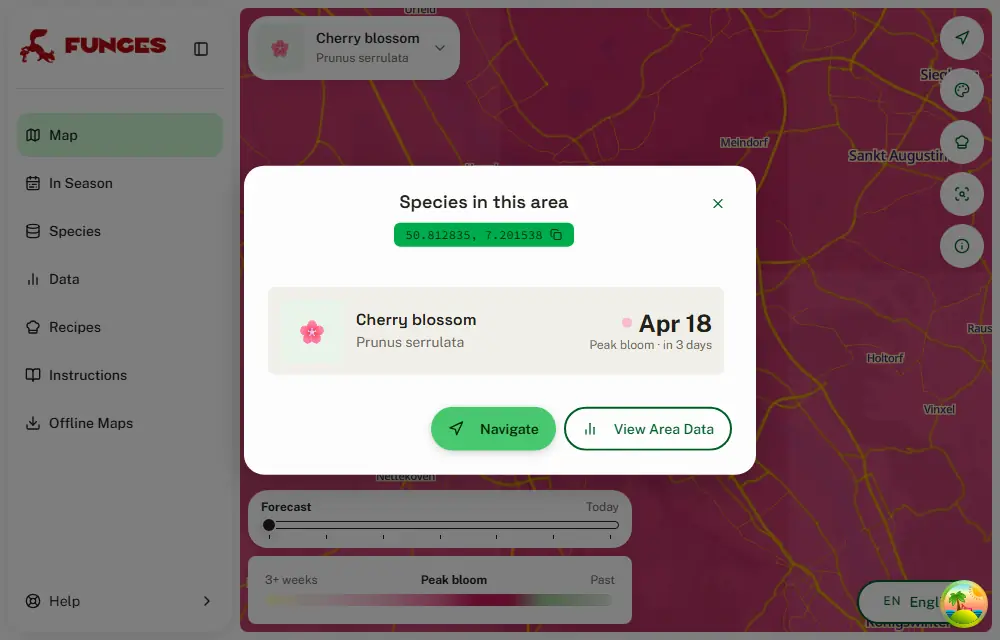
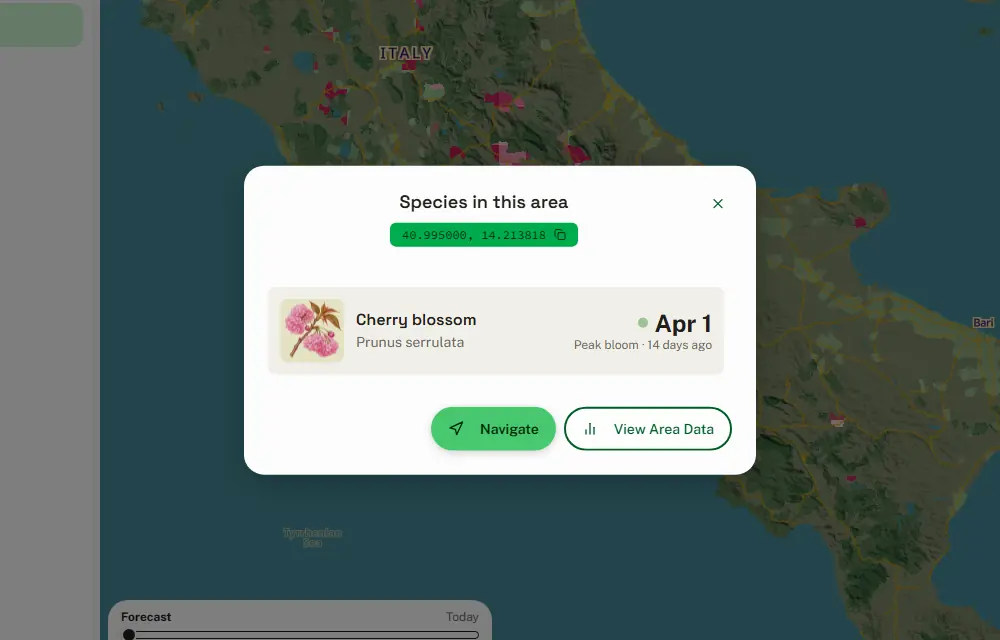
feat(bloom): finished towns stay green all season; cherry blossom picture
A town no longer vanishes 14 days after its peak, which read as a town
without cherries. It settles to a steady pale green until 30 June; from
July the map hides the layer, and only last season's file (peaks over
150 days old) is transparent and opens nothing on a click.

The selector, the species panel and the info modal show a Codex-made
'Kanzan' sprig in the catalog's style instead of the emoji.

diff --git a/src/lib/bloom.ts b/src/lib/bloom.ts
@@ -68,29 +68,36 @@ export const formatBloomDate = (
 
 const PEAK_DAYS = 2; // peak is ±2 days
 const SOON_DAYS = 21; // pink from three weeks out
-const PAST_DAYS = 14; // fades for two weeks after, as long as the backend keeps a cell
+const FADE_DAYS = 14; // green fades to its steady "done" tone over two weeks
+// No peak of this season is older than this (the earliest come around 1 March),
+// so an older one is last season's file, which waits on R2 until 1 February's run.
+const STALE_DAYS = 150;
 
-export type BloomStatus = 'later' | 'soon' | 'peak' | 'past' | 'over';
+export type BloomStatus = 'later' | 'soon' | 'peak' | 'past' | 'stale';
 
 export function bloomStatus(peak: number, day: number): BloomStatus {
   const toPeak = peak - day;
   if (toPeak > SOON_DAYS) return 'later';
   if (toPeak > PEAK_DAYS) return 'soon';
   if (toPeak >= -PEAK_DAYS) return 'peak';
-  if (toPeak >= -PAST_DAYS) return 'past';
-  return 'over';
+  if (toPeak >= -STALE_DAYS) return 'past';
+  return 'stale';
 }
 
 // Nothing in bloom: the light yellow the score layers start from.
 export const BLOOM_IDLE = 'rgba(255, 255, 204, 0.9)';
 
+// Done for this year: the steady pale green a town keeps until 30 June.
+const BLOOM_DONE = 'rgba(156, 196, 148, 0.45)';
+
 // Days to peak -> colour. Light yellow more than three weeks out, pink deepening
-// to the peak, then leaf green as the petals drop, fading out two weeks after:
-// last season's file, which the map keeps until the first run on 1 February,
-// reads as long over.
+// to the peak, then leaf green as the petals drop, settling to a pale green that
+// stays: a town never vanishes, which read as "no cherries here". Only last
+// season's file is invisible.
 export const BLOOM_RAMP: readonly (readonly [number, string])[] = [
-  [-PAST_DAYS - 1, 'rgba(156, 196, 148, 0)'],
-  [-PAST_DAYS, 'rgba(156, 196, 148, 0.35)'],
+  [-STALE_DAYS - 1, 'rgba(156, 196, 148, 0)'],
+  [-STALE_DAYS, BLOOM_DONE],
+  [-FADE_DAYS, BLOOM_DONE],
   [-6, '#9cc494'],
   [-PEAK_DAYS, '#c2185b'],
   [PEAK_DAYS, '#c2185b'],
@@ -106,7 +113,7 @@ export const BLOOM_STATUS_COLOR: Record<BloomStatus, string> = {
   soon: '#f7b8cf',
   peak: '#c2185b',
   past: '#9cc494',
-  over: BLOOM_IDLE,
+  stale: BLOOM_IDLE,
 };
 
 export function bloomFillColor(day: number): ExpressionSpecification {
@@ -118,11 +125,14 @@ export function bloomFillColor(day: number): ExpressionSpecification {
   ] as unknown as ExpressionSpecification;
 }
 
-/** The ramp as a legend, in the order a place goes through it: later -> past. */
+/** The ramp as a legend, in the order a place goes through it: later -> done. */
 export function bloomGradientCss(): string {
-  const [far] = BLOOM_RAMP[BLOOM_RAMP.length - 1];
-  const span = far - BLOOM_RAMP[0][0];
-  const stops = [...BLOOM_RAMP]
+  // From four weeks before the peak to the steady "done" green; the months of
+  // that green after it, and the stale stop, would only stretch the bar.
+  const shown = BLOOM_RAMP.filter(([toPeak]) => toPeak >= -FADE_DAYS);
+  const [far] = shown[shown.length - 1];
+  const span = far - shown[0][0];
+  const stops = [...shown]
     .reverse()
     .map(([toPeak, colour]) => `${colour} ${((far - toPeak) / span) * 100}%`);
   return `linear-gradient(to right, ${stops.join(', ')})`;

diff --git a/src/test/bloom.test.ts b/src/test/bloom.test.ts
@@ -50,13 +50,15 @@ describe('bloomStatus', () => {
     [102, 'peak'],
     [103, 'past'],
     [114, 'past'],
-    [115, 'over'],
+    [115, 'past'],
+    [250, 'past'],
+    [251, 'stale'],
   ])('on day %i is %s', (day, status) => {
     expect(bloomStatus(peak, day)).toBe(status);
   });
 
-  it('treats a cell without a peak as over, so a click lists nothing', () => {
-    expect(bloomStatus(Number(undefined), 100)).toBe('over');
+  it('treats a cell without a peak as stale, so a click lists nothing', () => {
+    expect(bloomStatus(Number(undefined), 100)).toBe('stale');
   });
 });
 
@@ -71,8 +73,17 @@ describe('bloomFillColor', () => {
     expect(expression.slice(3)).toEqual(BLOOM_RAMP.flat());
   });
 
-  it('is transparent once a place is over, so last season reads as nothing', () => {
-    expect(BLOOM_RAMP[0][1]).toMatch(/, 0\)$/);
+  it('keeps a finished town a steady pale green, never transparent', () => {
+    const done = BLOOM_RAMP.filter(
+      ([toPeak]) => toPeak >= -150 && toPeak <= -14
+    );
+    expect(done.length).toBe(2);
+    expect(done[0][1]).toBe(done[1][1]);
+    expect(done[0][1]).not.toMatch(/, 0\)$/);
+  });
+
+  it('is transparent only for last season, peaks over 150 days old', () => {
+    expect(BLOOM_RAMP[0]).toEqual([-151, 'rgba(156, 196, 148, 0)']);
   });
 
   it('draws the legend from later to past: yellow, pink, then green', () => {
@@ -81,7 +92,8 @@ describe('bloomFillColor', () => {
       true
     );
     expect(css).toContain('#c2185b');
-    expect(css.endsWith('rgba(156, 196, 148, 0) 100%)')).toBe(true);
+    // It ends on the steady "done" green, not on the months of it after.
+    expect(css.endsWith('rgba(156, 196, 148, 0.45) 100%)')).toBe(true);
   });
 
   it('never paints the days after the peak pink', () => {

diff --git a/src/store/mapStore.ts b/src/store/mapStore.ts
@@ -23,6 +23,7 @@ import type { RegionId } from '@/lib/data';
 import {
   BLOOM_CODE,
   bloomFillColor,
+  bloomInSeason,
   bloomToday,
   isBloomLayer,
   unixDay,
@@ -565,13 +566,19 @@ export const useMapStore = create<MapState>()(
                 }
               } else if (isBloomLayer(id)) {
                 // Coloured by days to peak on the slider's day, not by a score.
-                mapRef.setPaintProperty(
-                  id,
-                  'fill-color',
-                  bloomFillColor(unixDay(bloomToday()) + activeDay)
-                );
-                mapRef.setLayoutProperty(id, 'visibility', 'visible');
-                drawn = true;
+                // Out of season (July-January) there is nothing to show: finished
+                // towns stay green until 30 June, then the layer goes.
+                if (bloomInSeason(bloomToday())) {
+                  mapRef.setPaintProperty(
+                    id,
+                    'fill-color',
+                    bloomFillColor(unixDay(bloomToday()) + activeDay)
+                  );
+                  mapRef.setLayoutProperty(id, 'visibility', 'visible');
+                  drawn = true;
+                } else {
+                  mapRef.setLayoutProperty(id, 'visibility', 'none');
+                }
               } else {
                 const current = mapRef.getPaintProperty(
                   id,

diff --git a/src/components/FeatureInfoModal.tsx b/src/components/FeatureInfoModal.tsx
@@ -17,7 +17,7 @@ import { SPECIES_DATA, speciesNameKey } from '@/data/species';
 import type { RegionId } from '@/lib/data';
 import { Navigation, BarChart2, Copy, Check, AlertTriangle } from '@/lib/icons';
 import {
-  BLOOM_EMOJI,
+  BLOOM_CODE,
   BLOOM_SCIENTIFIC_NAME,
   BLOOM_STATUS_COLOR,
   bloomStatus,
@@ -168,11 +168,14 @@ export default function FeatureInfoModal({
             {bloomPeak !== null && bloomDay !== undefined && (
               <div className='flex items-center space-x-3 p-2 sm:p-3 bg-muted rounded-lg'>
                 <div className='flex-shrink-0'>
-                  <div
-                    aria-hidden='true'
-                    className='flex w-14 h-14 sm:w-16 sm:h-16 items-center justify-center rounded-lg bg-secondary text-2xl'
-                  >
-                    {BLOOM_EMOJI}
+                  <div className='relative w-14 h-14 sm:w-16 sm:h-16 bg-secondary overflow-hidden rounded-lg'>
+                    <img
+                      src={getSpeciesImage(BLOOM_CODE) ?? undefined}
+                      alt={t('bloom.name')}
+                      className='w-full h-full object-cover object-center'
+                      loading='lazy'
+                    />
+                    <div className='absolute inset-0 bg-black/10' />
                   </div>
                 </div>
                 <div className='flex-1 min-w-0'>

diff --git a/src/test/mapStore.test.ts b/src/test/mapStore.test.ts
@@ -311,6 +311,8 @@ describe('updateVisibleLayers with a selection from another region', () => {
   });
 
   it('draws the cherry blossom layer, coloured for the slider day', () => {
+    vi.useFakeTimers({ toFake: ['Date'] });
+    vi.setSystemTime(new Date(2027, 3, 15));
     const { visibility, paint, map } = fakeMap([
       'cherry_blossom_usw',
       'cherry_blossom_ne',
@@ -331,6 +333,19 @@ describe('updateVisibleLayers with a selection from another region', () => {
       bloomFillColor(unixDay(new Date()) + 3)
     );
     expect(useMapStore.getState().selectedSpeciesOnMap).toBe(true);
+    vi.useRealTimers();
+  });
+
+  it('hides the cherry blossom layer out of season', () => {
+    vi.useFakeTimers({ toFake: ['Date'] });
+    vi.setSystemTime(new Date(2027, 7, 1));
+    const { visibility, map } = fakeMap(['cherry_blossom_usw']);
+    useMapStore.setState({ mapRef: map, selectedSpecies: BLOOM_CODE });
+    useMapStore.getState().updateVisibleLayers();
+
+    expect(visibility.cherry_blossom_usw).toBe('none');
+    expect(useMapStore.getState().selectedSpeciesOnMap).toBe(false);
+    vi.useRealTimers();
   });
 
   it('hides a Europe-only selection over the US and reports nothing drawn', () => {

diff --git a/src/components/SpeciesSelector.tsx b/src/components/SpeciesSelector.tsx
@@ -39,8 +39,8 @@ const SpeciesSelector: React.FC<SpeciesSelectorProps> = ({
   // Resolved from the whole catalog, not the region's options: the selection
   // survives panning into a region that has no forecast for it.
   const species = selectedSpecies ? getSpeciesById(selectedSpecies) : undefined;
-  // The cherry blossom layer is picked like a species but has no catalog entry,
-  // and no photo: the emoji stands in.
+  // The cherry blossom layer is picked like a species but has no catalog entry;
+  // its picture sits with the species' in src/assets/species.
   const selected =
     selectedSpecies === BLOOM_CODE
       ? {
@@ -48,7 +48,7 @@ const SpeciesSelector: React.FC<SpeciesSelectorProps> = ({
           emoji: BLOOM_EMOJI,
           name: t('bloom.name'),
           scientificName: BLOOM_SCIENTIFIC_NAME,
-          photo: false,
+          photo: true,
         }
       : species && {
           id: species.id,

diff --git a/src/components/SpeciesSelectorFullscreen.tsx b/src/components/SpeciesSelectorFullscreen.tsx
@@ -87,7 +87,7 @@ const SpeciesSelectorFullscreen: React.FC<SpeciesSelectorFullscreenProps> = ({
   ];
 
   // Species, plus the cherry blossom layer under "Spectacles": it is picked like
-  // a species but is not in the catalog, so it brings its own name and has no photo.
+  // a species but is not in the catalog, so it brings its own name.
   const options = [
     ...speciesOptions.map(option => {
       const speciesData = SPECIES_DATA.find(item => item.id === option.code);
@@ -106,7 +106,7 @@ const SpeciesSelectorFullscreen: React.FC<SpeciesSelectorFullscreenProps> = ({
       category: 'spectacle' as string | undefined,
       name: t('bloom.name'),
       scientificName: BLOOM_SCIENTIFIC_NAME,
-      image: null,
+      image: getSpeciesImage(BLOOM_CODE),
     },
   ];
 

diff --git a/src/components/AdvancedMap.tsx b/src/components/AdvancedMap.tsx
@@ -1354,14 +1354,14 @@ const AdvancedMap: React.FC<MapProps> = ({ className = '' }) => {
       });
       if (features && features.length > 0) {
         const f = features[0];
-        // A cherry blossom cell carries a peak date. One whose bloom is long over,
-        // as all of last season's file is, has nothing to list.
+        // A cherry blossom cell carries a peak date. Only last season's file,
+        // waiting for 1 February's run, has nothing to list.
         if (
           selectedSpecies === BLOOM_CODE &&
           bloomStatus(
             Number(f.properties?.peak),
             unixDay(bloomToday()) + activeDay
-          ) === 'over'
+          ) === 'stale'
         ) {
           return;
         }

diff --git a/backend/bloom.py b/backend/bloom.py
@@ -38,7 +38,6 @@ FORCING = {"yoshino": 285.0, "kanzan": 485.0}  # °C·days above FORCE_BASE
 MAP_VARIETY = "kanzan"
 CELL = 0.1  # degrees; base points are averaged into cells this size
 LAPSE = 0.0065  # °C per metre, moves a normal to a cell's elevation
-PAST_DAYS = 14  # a cell stays on the map this long after its peak
 EPOCH = date(1970, 1, 1)
 
 _BACKEND = Path(__file__).resolve().parent
@@ -207,15 +206,15 @@ def build_bloom(master_path, region_code, r2_prefix, to_pmtiles, upload,
     del obs
     base = (first - EPOCH).days
     peak = base + peak_index(tmean, FORCING[MAP_VARIETY])
-    drawn = np.isfinite(peak) & (peak >= (today - EPOCH).days - PAST_DAYS)
+    # Every town with a peak stays all season, green once it is done: one that
+    # vanished after its bloom read as a town without cherries.
+    drawn = np.isfinite(peak)
     print(f"Bloom {region_code}: {int(drawn.sum())} of {len(peak)} cells drawn "
           f"({int(np.isnan(peak).sum())} without a peak)")
 
     bands = 0
     with tempfile.TemporaryDirectory() as tmpdir:
         tmp = Path(tmpdir)
-        # Nothing left to draw late in June: the last tileset's cells are all past by
-        # then, which the map paints transparent, so it can stay.
         features = _bands(cy[drawn], cx[drawn], peak[drawn], towns) if drawn.any() else []
         if len(features):
             geojson = tmp / f"{region_code}_bloom.geojson"

diff --git a/docs/species/2026-09-30-cherry-blossom.md b/docs/species/2026-09-30-cherry-blossom.md
@@ -119,8 +119,8 @@ It is as good in DC and the iNaturalist cities. But it blooms the warm south of 
 - Cells with the same peak day are dissolved into one feature, so a tileset holds about 70–90 features and weighs 0.2–0.7 MB.
 - NE and SE share 60 cells, USE and USW 290; there both draw.
 - **Season:** 1 February – 30 June. Outside it the step returns before downloading anything.
-  - A cell stays on the map until 14 days after its peak.
-  - The map paints anything older transparent, which is how last season's file stays harmless until the first run on 1 February.
+  - Every town with a peak stays in the tiles all season, green once its bloom is done. One that vanished after its peak read as a town without cherries.
+  - From July the map hides the layer. A peak over 150 days old is last season's: the map paints it transparent and a click opens nothing, which keeps last season's file harmless until the first run on 1 February.
 - **Cost:** one extra download of the region's master; 10–17 s and under 400 MB traced for the model and the dissolve.
 - **Tiles:** bloom.py runs its own tippecanoe, to zoom 10 at normal detail, giving 0.3–1.8 MB per region. The forecast's settings (z6, `-d9`, simplification 4) suit the species mesh and shave a town into a shard.
 
@@ -174,6 +174,7 @@ Cherry blossom looks and behaves like a species layer, with its own colour scale
 - **Picking it:** "Cherry blossom" is under a **Spectacles** filter in the species panel.
   - Its code, `cherry_blossom`, passes `isMapSpecies` and works in `?species=`.
   - It is not a catalog species: no page, no photo ID, no score.
+  - Its picture, a 'Kanzan' sprig in the catalog's style, is `src/assets/species/cherry_blossom.webp`, made with Codex's image tool. The selector, the species panel and the info modal show it.
 - **The layers** are added at runtime the first time it is picked, in the species fills' place in the stack and with their opacity (`AdvancedMap.tsx`). The style JSONs, and `species:check` and the style tests that hold them to species scores, are untouched.
   - Unlike the species, it is drawn on towns, where the trees are planted, not on wild habitat.
   - The cells are clipped to Natural Earth's 1:10m urban areas (public domain; `backend/generated/bloom_towns_{EU,US}.geojson` from `backend/tools/build_bloom_towns.py`), rounded off and cut to land. Europe has 3,956 of them, the US 1,167, about 3% of the land.
@@ -182,10 +183,10 @@ Cherry blossom looks and behaves like a species layer, with its own colour scale
   - light yellow more than three weeks out, where the score layers start too;
   - pink deepening to the peak;
   - deep pink at peak ±2 days;
-  - leaf green as the petals drop, fading for two weeks;
-  - then transparent.
+  - leaf green as the petals drop;
+  - then, from two weeks after the peak, a steady pale green until 30 June.
 - **The legend** is the score legend's card, with this scale and "3+ weeks · Peak bloom · Past".
-- **A click** opens the same info modal as a species. Its one row reads "Cherry blossom, _Prunus serrulata_", then a swatch, the peak date and "Peak bloom · in 3 days" where a species has its score. A cell whose bloom is long over opens nothing.
+- **A click** opens the same info modal as a species. Its one row reads "Cherry blossom, _Prunus serrulata_", then a swatch, the peak date and "Peak bloom · in 3 days" where a species has its score. A finished town opens it too ("Peak bloom · 14 days ago").
 - **Off-season** (July–January) the selector's notice, the one that says a species isn't forecast here, says the forecast starts on 1 February.
 
 ## Places looked at
